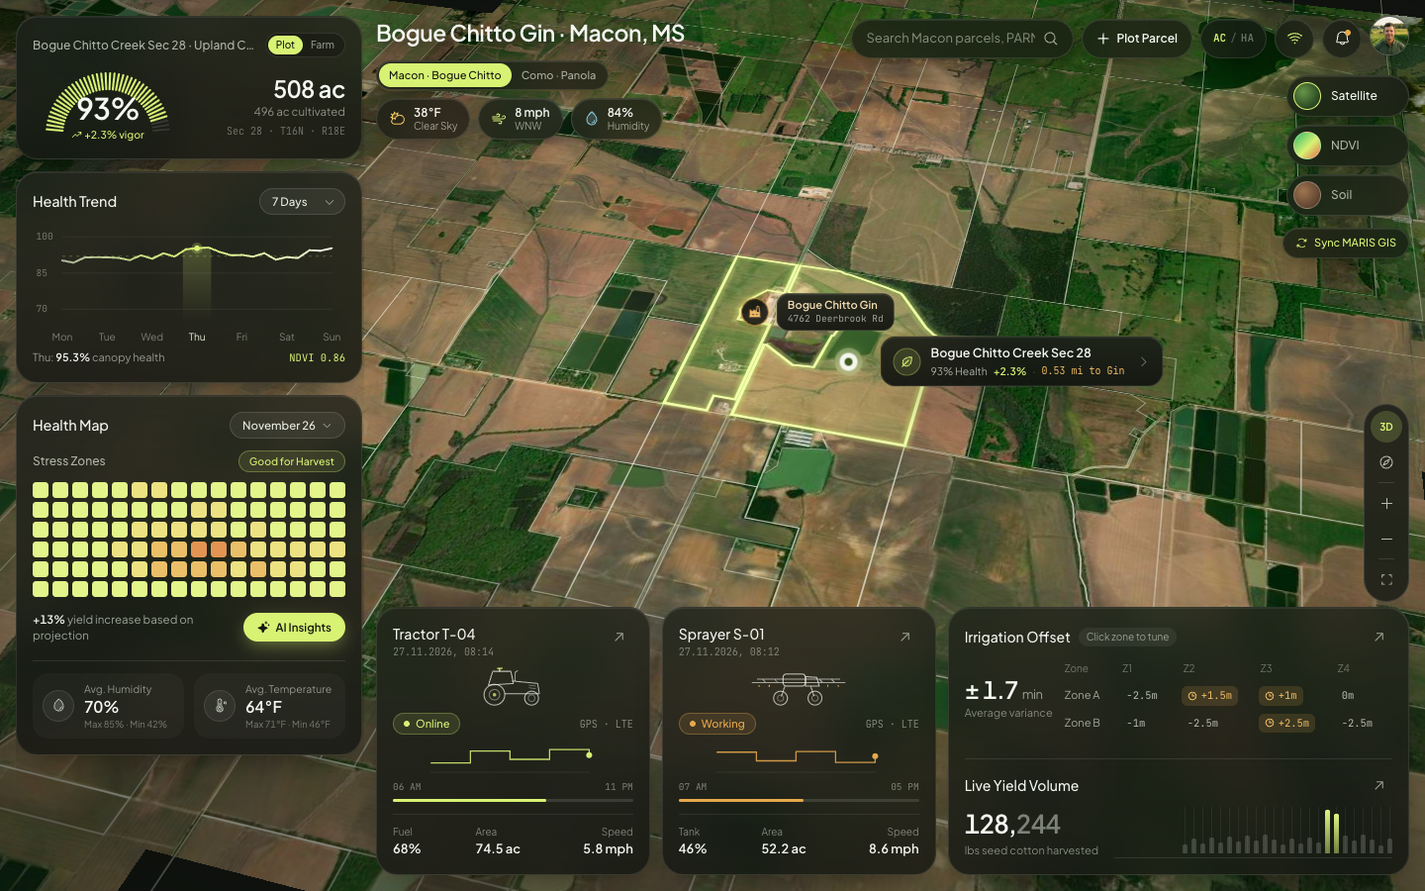
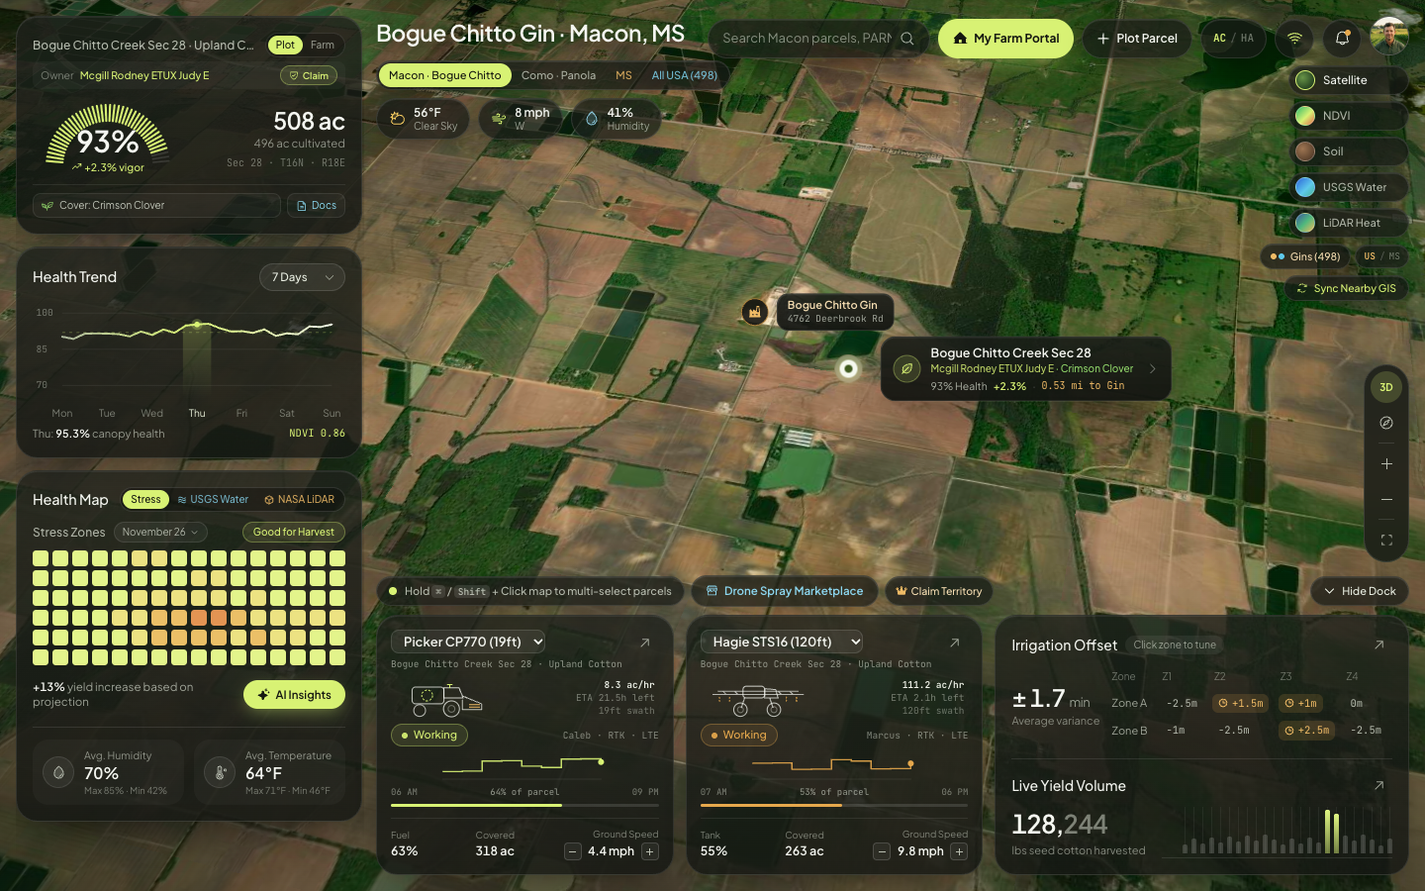
Update README with fresh production screenshots and all recent features

diff --git a/README.md b/README.md
@@ -1,21 +1,51 @@
-# DeltaPlot — Mississippi Parcel Farm Management System
+# DeltaPlot — Precision Parcel Farm Management System
 
-**Live Deployment:** [https://delta-parcel-fms.vercel.app](https://delta-parcel-fms.vercel.app) · **Repository:** [github.com/sardoru/delta-parcel-fms](https://github.com/sardoru/delta-parcel-fms)
+**Live Deployment:** [https://delta-parcel-fms.vercel.app](https://delta-parcel-fms.vercel.app) · **Repository:** [github.com/sardoru/delta-parcel-fms](https://github.com/sardoru/delta-parcel-fms) · **Auth Roadmap:** [Issue #1](https://github.com/sardoru/delta-parcel-fms/issues/1)
 
-A parcel-first precision agriculture operations cockpit built for **Mississippi farmers**, grounded in **official 2024 Mississippi MARIS cadastral farmland parcels** across two major Mississippi row-crop basins on a live 3D-tilted satellite map:
+A parcel-first precision agriculture operations cockpit and farmer owner portal built on **official multi-state county cadastral farmland parcels**, **live federal USGS & NASA hydrological/LiDAR intelligence**, **498 verified U.S. Cotton Gins & Warehouses**, an **Ag-Drone Spraying Marketplace**, and **Google-Maps-style County Tax Assessor postcard ownership verification**.
 
-- **Bogue Chitto Gin · Macon, MS (Noxubee County, FIPS `28103`)** — 120 official MARIS 2024 East MS Black Belt Prairie farm parcels (**28,770 surveyed acres / 25,197 cultivated acres**) centered around **Bogue Chitto Gin (`4762 Deerbrook Rd, Macon, MS 39341`)** with live haul-distance telemetry (`mi to Gin`) and Blackland soil series (**Brooksville, Okolona, Leeper, Vaiden, Kipling**).
-- **Como, MS (Panola County, FIPS `28107`)** — 120 official MARIS 2024 West MS cultivated farm parcels (**24,087 surveyed acres / 15,433 cultivated acres**) along Hwy 310, US-51, and I-55 with MLRA-134 loess soil series (**Memphis, Loring, Collins, Falaya, Grenada**).
-- **All U.S. Cotton Gins & Warehouses (`All USA (498)`)** — Every geocoded **U.S. Cotton Gin (447)** and **U.S. Cotton Warehouse (51)** across all **17 U.S. Cotton Belt states** (`TX`, `GA`, `MS`, `AR`, `NC`, `AL`, `TN`, `LA`, `MO`, `SC`, `CA`, `OK`, `AZ`, `VA`, `FL`, `KS`, `NM`) sourced from `cotton-gin-map.vercel.app`, cross-verified against Esri `PointAddress`, EPA FRS GPS/Air, and MS MARIS 2024 cadastral records (`206 ✓ Rooftop Pin`, `134 ✓ Street / POI`, `158 ~ Approx Area`).
-- **In-Cab Combine Harvester Driving & RTK AutoTrac Simulator ([Launch Cab View](https://delta-parcel-fms.vercel.app/?mode=cab))** — First-person panoramic combine cab (`X9 1100` + 40-ft `RD40F` draper/cotton header) playable directly inside any selected Mississippi MARIS parcel with Cornerpost OLED telemetry, interactive steering wheel & HydroHandle throttle, clickable CommandCenter™ G5 autopilot waypoints, Auto AB Swaths, live swath coverage painting, and Day/Dusk harvest lighting.
+![DeltaPlot — Live 3D Satellite Parcel Dashboard (Bogue Chitto Gin · Macon, MS)](docs/preview-macon.png)
 
-![DeltaPlot Bogue Chitto Gin — Macon, MS Live Satellite Parcel Dashboard](docs/preview-macon.png)
+---
 
-### In-Cab Combine Harvester Simulator Screenshots
+## Feature Showcase
 
-![DeltaPlot X9 1100 Combine Harvester Cab — Daytime Cotton Harvest with Cornerpost OLED, Steering Column & CommandCenter G5 Waypoints](docs/preview-combine-cab.png)
+### Live USGS Water / Drainage + NASA SMAP & USGS 3DEP 1-Meter LiDAR Map Overlays
+Toggle federal raster heatmaps directly onto the 3D satellite map from either the right-side map rail or inside the left **Health Map** panel (`USGS Water` + `NASA LiDAR` tabs):
+- **USGS Water + NASA SMAP** ([Open Live](https://delta-parcel-fms.vercel.app/?overlay=water&healthTab=water)) — Streams live **USGS NHD** creeks & drainage channels, **USGS WBD HUC-12** watershed boundaries, and **NASA GIBS SMAP L4** surface soil moisture tiles alongside live **USGS National Water Dashboard** stream gages & **FEMA NFHL** flood zones.
+- **USGS 3DEP 1m LiDAR Heatmap** ([Open Live](https://delta-parcel-fms.vercel.app/?overlay=lidar&healthTab=lidar)) — Streams live 1-meter LiDAR elevation tiles with inline **`Elev` | `Slope` | `2ft`** contour switching plus selectable **NASA GEDI L2A** & **ICESat-2 ATL08** orbital LiDAR scans.
 
-![DeltaPlot X9 1100 Combine Harvester Cab — Dusk Night Harvest with LED Work Lights & Active RTK AutoTrac Autopilot](docs/preview-combine-dusk.png)
+![DeltaPlot — Live USGS Water/Drainage, NASA SMAP & USGS 3DEP 1m LiDAR Map Overlays](docs/preview-usgs-lidar.png)
+
+### Farmer Owner Portal & Farm Management Dashboard
+Verify ownership of your parcels to manage your entire farm portfolio from a dedicated owner dashboard ([Open Portal](https://delta-parcel-fms.vercel.app/?mode=portal)):
+- **Portfolio KPIs:** Verified owned acreage, pending USPS postcard claims, winter cover crop coverage %, uploaded soil tests & certifications, and active drone RFQs.
+- **4 Dedicated Portal Views:** `Farm Dashboard`, `Crop Cover & Rotation` (multi-year cross-parcel matrix), `Docs, Certs & Soil Tests` (unified Farm Vault), and `Postcard Claims` (USPS PIN verification ledger).
+
+![DeltaPlot — Farmer Owner Portal & Farm Management Dashboard](docs/preview-farmer-portal.png)
+
+### County Tax Assessor Postcard Ownership Claiming (Google-Maps-Style Verification)
+Prevent unauthorized parcel claims using live County Tax Roll verification ([Open Claim Flow](https://delta-parcel-fms.vercel.app/?drawer=claim)):
+- Queries live **MS MARIS County Tax Assessor records** (`MAILADD1`, `MCITY1`, `MZIP1`) to retrieve the owner's official mailing address on file and locks the USPS verification postcard exclusively to that address (`7–14 day` USPS delivery + one-time 6-digit PIN).
+- Includes a sandbox postcard preview so reviewers can test the full claim → PIN verification → `✓ Verified Owner` badge → Farmer Portal workflow end-to-end.
+- Future production authentication, server-side Lob/PostGrid postcard dispatch, and private cloud document storage are tracked in [GitHub Issue #1](https://github.com/sardoru/delta-parcel-fms/issues/1).
+
+![DeltaPlot — County Tax Assessor Postcard PIN Ownership Verification](docs/preview-postcard-claim.png)
+
+### Parcel Crop Cover, Multi-Season Crop History & Document / Soil Test Vault
+Manage agronomic history and compliance records directly on every parcel ([Open Crops & Cover](https://delta-parcel-fms.vercel.app/?drawer=crops) · [Open Docs & Soil Vault](https://delta-parcel-fms.vercel.app/?drawer=documents)):
+- **Active Cash Crop & Winter Cover Crop:** Assign cash crops and winter conservation covers (`Cereal Rye`, `Crimson Clover`, `Winter Wheat Cover`, `Tillage Radish + Oats`, `Hairy Vetch`, `Austrian Winter Pea`, `Black Oats + Clover Mix`) with seeded date & termination targets.
+- **Previous Crops Planted:** Log multi-year crop rotations (`Main Crop`, `Fall/Winter Cover`, `Double-Crop`), varieties, tillage practices, and yield notes.
+- **Document, Certification & Soil Test Uploads:** Drag-and-drop `PDF`, `CSV`, `PNG`, `JPG`, `XLSX`, or `DOCX` files across 6 categories (`Soil Test`, `Certification`, `FSA / USDA Form`, `Spray / Drone Record`, `Deed / Tax Roll`, `Other`) with structured soil lab assay inputs (**pH, OM %, N, P, K, CEC**).
+
+![DeltaPlot — Parcel Crop Cover & Previous Crops Planted Drawer](docs/preview-crops-cover.png)
+
+### Ag-Drone Spraying Marketplace, Multi-Parcel RFQs & Exclusive Territory Claims
+Hold **`⌘` / `Ctrl` / `Shift` + Click** on the map to batch-select multiple parcels and request spraying quotes from FAA Part 137 drone applicators ([Open Marketplace](https://delta-parcel-fms.vercel.app/?mode=drone) · [Open Vendor Signup](https://delta-parcel-fms.vercel.app/?mode=drone-vendor)):
+- **Multi-Parcel Bid Exchange:** Send a single RFQ across all selected parcels with combined acreage, carrier GPA, chemical/defoliant application type, and instant itemized vendor bids.
+- **Vendor Memberships & Exclusive Territories:** Drone service companies can sign up as regional approved vendors or claim exclusive high-priority county territories for a higher tier fee.
+
+![DeltaPlot — Ag-Drone Spraying Marketplace & Exclusive Territory Claims](docs/preview-drone-marketplace.png)
 
 <details>
 <summary>View Como, MS (Panola County) Basin Screenshot</summary>
@@ -26,46 +56,43 @@ A parcel-first precision agriculture operations cockpit built for **Mississippi 
 
 ---
 
-## Overview
+## Core Capabilities
 
-DeltaPlot unifies real Mississippi county cadastral boundaries, high-resolution satellite imagery, vegetation vigor diagnostics, USDA NRCS soil series mapping, fleet telemetry, and poly-pipe / pivot irrigation zone calibration inside a single dark-glass spatial HUD.
+### 1. Multi-State Cadastral GIS & Nationwide Cotton Belt Infrastructure
+- **Bogue Chitto Gin · Macon, MS (Noxubee County, FIPS `28103`):** 120 official MARIS 2024 East MS Black Belt Prairie farm parcels (**28,770 surveyed acres / 25,197 cultivated acres**) with live `mi to Gin` haul distance and Blackland soils (**Brooksville, Okolona, Leeper, Vaiden, Kipling**).
+- **Como, MS (Panola County, FIPS `28107`):** 120 official MARIS 2024 West MS parcels (**24,087 surveyed acres / 15,433 cultivated acres**) with MLRA-134 loess soils (**Memphis, Loring, Collins, Falaya, Grenada**).
+- **All 498 U.S. Cotton Gins & Warehouses (`All USA (498)`):** All **447 Cotton Gins** and **51 Cotton Warehouses** across all **17 U.S. Cotton Belt states**, cross-verified against Esri `PointAddress`, EPA FRS GPS/Air, and county cadastral records.
+- **Live Multi-State County Parcel Sync (`Sync Nearby GIS`):** Click any gin or warehouse (or pan anywhere in view) to pull live official farmland parcel polygons with real county ownership directly from **MS MARIS**, **Arkansas GIS**, **Texas StratMap**, and **NC OneMap**.
+- **Geodesic Parcel Plotter (`+ Plot Parcel`):** Click 3+ GPS vertices on the satellite map to survey custom sub-plots with spherical-earth geodesic acreage persisted to `localStorage`.
 
-Out of the box, the application ships with **120 official cultivated farm parcels** around **Como, MS 38619** (totaling **24,087 surveyed GIS acres** and **15,433 cultivated row-crop acres** along Highway 310, US-51, Interstate 55, Compress Rd, Dunlap Rd, Old Panola Rd, Wilborn Creek, and Holston Rd) — and can dynamically query additional Mississippi parcels anywhere in the viewport directly from the live **MARIS 2024 Cadastral ArcGIS REST API**.
+### 2. Precision Agronomy, Hydrology & Orbital LiDAR (Left Analytics Rail)
+- **Segmented Health Arc Gauge & Owner Header:** Toggle **Plot** vs. **Farm** aggregates, convert **AC / HA** & **°F / °C**, view verified county ownership, and jump directly to **Cover Crops**, **Docs & Soil**, or **Claim Parcel**.
+- **Health Trend Waveform:** Interactive `7 Days`, `14 Days`, and `30 Days` canopy vigor & NDVI scrubber.
+- **3-Mode Health Map (`Stress` | `USGS Water` | `NASA LiDAR`):**
+  - **Stress Zones:** 16×6 sub-parcel stress grid with live map crosshair projection and **AI Agronomy Insights**.
+  - **USGS Water:** Live **USGS National Water Dashboard** streamgage height/discharge, **FEMA NFHL** flood zone lookup, **HUC-12** watershed ID, and one-click map overlay sync.
+  - **NASA LiDAR:** Selectable **NASA GEDI L2A**, **ICESat-2 ATL08**, and **USGS 3DEP 1m DEM** elevation/slope scans with one-click map overlay sync.
+
+### 3. Collapsible Bottom Telemetry Dock & Parcel-Bound Equipment HUD
+- **Hide / Show Bottom Dock (`Hide Dock`):** Collapse the entire telemetry dock into a minimal floating bar (or open with `?dock=hidden`) to maximize 3D satellite map workspace.
+- **Changeable Real Equipment HUD:** Swap primary harvesters/tractors (**John Deere CP770 Picker, X9 1100 Combine, 8R 340 Tractor, Case IH Module Express 635**) and applicators (**Hagie STS16, JD 616R, DJI Agras T50 Drone, Air Tractor 502B**) per parcel with live speed tuning (`-` / `+`), `ac/hr` capacity, and parcel ETA recalculation.
+- **Interactive Irrigation Offset Calibration & Live Yield Spectrum:** Step-calibrate `Zone A / Zone B` (`Z1–Z4`) poly-pipe and pivot timing offsets in real time.
 
 ---
 
-## Key Features
+## Quick Deep Links
 
-### 1. Live 3D-Tilted Geospatial Parcel Map (MapLibre GL JS)
-- **High-Resolution Satellite Imagery:** Powered by Esri World Imagery with subtle transportation and place reference overlays so growers can orient by real roads (`I-55`, `US-51`, `MS-310`, `W Oak Ave`) without obscuring crop rows.
-- **3D Oblique Aerial & 2D Survey Modes:** Launches in a 48° oblique 3D aerial pitch (`3D` toggle switches cleanly to 0° top-down cadastral survey view).
-- **Interactive Cadastral Selection:** Click any of the 120+ Panola County farm parcels to smoothly fly to it, illuminate its exact surveyed boundary in luminous chartreuse, and refresh all analytics, weather, irrigation, and dossier panels.
-- **Multi-Layer Spectral & Soil Modes:**
-  - **Satellite:** Natural-color aerial imagery with glowing active parcel boundary and hover previews.
-  - **NDVI:** Parcel-wide vegetation vigor index color overlay (`0.34 – 0.92` scale).
-  - **Soil:** Panola County MLRA-134 soil series overlay (**Memphis Silt Loam**, **Loring Silt Loam**, **Collins Silt Loam**, **Falaya Silt Loam**, **Grenada Silt Loam**).
-- **Live MARIS GIS Viewport Sync (`Sync MARIS GIS`):** Pan anywhere across Panola, Tate, Quitman, Tunica, DeSoto, Leflore, or neighboring West Mississippi counties and pull live 2024 cultivated farm parcels (`CULT_AC1 >= 25 OR GISACRES >= 50`) straight from `gis.mississippi.edu`.
-- **Geodesic Parcel Plotter (`+ Plot Parcel`):** Click 3 or more GPS vertices directly on the satellite map to survey custom sub-fields or management blocks with real spherical-earth geodesic acreage calculation, persisted to `localStorage`.
-
-### 2. Precision Agronomy & Stress Analytics (Left Rail)
-- **Segmented Health Arc Gauge & Area KPI:** Toggle seamlessly between **Plot** (active parcel GIS vs. cultivated acreage and PLSS Section-Township-Range) and **Farm** (whole-operation aggregate), plus instant **AC / HA** and **°F / °C** unit conversion.
-- **Health Trend Waveform:** Interactive `7 Days`, `14 Days`, and `30 Days` canopy vigor & NDVI time-series chart with hover scrubbing and optimal threshold baseline.
-- **Health Map (`Stress Zones`):** 16×6 sub-parcel spatial stress heatmap. Hovering any zone inspects local moisture %, NDVI, and agronomic stress cause (e.g., Loring fragipan moisture deficit or terrace runoff) while simultaneously projecting a pulsing crosshair at that exact sub-zone inside the selected parcel on the map.
-- **AI Agronomy Insights (`AI Insights`):** Parcel-specific MSU Extension & USDA-NRCS aligned prescriptions (harvest windows, variable-rate lime recommendations, MLRA-134 loess erosion control, EQIP eligibility) with one-click scheduling into the parcel operations log.
-
-### 3. Live Fleet, Irrigation Offset & Harvest Telemetry (Bottom Dock)
-- **Equipment Telemetry Cards (`Tractor T-04` & `Sprayer S-01`):** Isometric technical wireframes, live `Online` / `Working` status, RTK/LTE telemetry badges, stepped shift duty-cycle graphs, fuel/tank/area/speed readouts, and click-to-inspect parcel dispatch reassignment.
-- **Interactive Irrigation Offset Calibration:** Live `Zone A` / `Zone B` (`Z1–Z4`) timing offset matrix for poly-pipe, surge valves, and center-pivot spans. Click any zone offset cell to step-calibrate timing (`±0.5 min`) and recalculate average variance in real time.
-- **Live Yield Volume:** Real-time harvest mass readout (`lbs` / `kg`) and load-interval pulse spectrum tailored to each parcel's crop.
-
-### 4. Real-Time Como Weather & Panola County Cadastral Dossier
-- **Live Como, MS Weather:** Fetches live temperature, wind speed & compass bearing, humidity, and sky condition for Como (`34.5101°N, -89.9401°W`) via Open-Meteo with resilient offline defaults.
-- **Parcel Dossier Drawer:** Displays official Panola County assessor records (`PARNO`, `PLSS`, `Legal Description`, `Site Address`, `2024 Assessed Land Value`, `Surveyed vs. Cultivated Acres`), USDA soil pH/CEC/drainage specs, live **Field Activity Logger**, and one-click **JSON Parcel Export**.
-
-### 5. In-Cab Combine Harvester Driving & RTK AutoTrac Simulator
-- **First-Person Panoramic Windshield:** 60fps perspective view over the real selected MARIS parcel polygon with converging crop rows (white cotton bolls, corn stalks, soybeans, sorghum, or wheat), live harvested stubble swaths, animated 40-ft `RD40F` draper header with spinning pickup reel & hydraulic raise/lower (`4"–44"`), chaff/dust plumes, Day/Dusk mode with LED work-light beams, windshield wiper, and AR windshield guidance corridor.
-- **Right A-Pillar Cornerpost OLED Display:** Live ground speed (`MPH`), drive range (`F1 / F2 / N / R`), engine RPM & load %, coolant °F, live grain tank / cotton basket fill %, header height gauge, shoe & rotor loss monitor, fuel/DEF %, and `SEP / HDR / AUTO / AUG` annunciators.
-- **Interactive Steering, HydroHandle & CommandCenter™ G5 Waypoints:** Drag the 3-spoke steering wheel or drive with `W/A/S/D` & Arrow keys, drop custom waypoints by clicking anywhere on the live parcel map, generate parallel **Auto AB Swaths**, engage **RTK AutoTrac (`P`)** pure-pursuit autopilot with live Cross-Track Error (`XTE`), inspect **Threshing** diagnostics (Dual Rotor RPM, Cleaning Fan RPM, Concave Clearance), and log harvested acreage directly back to the parcel dossier upon exiting.
+| Feature / View | Direct Live URL |
+| --- | --- |
+| Main 3D Satellite Dashboard (Macon, MS) | https://delta-parcel-fms.vercel.app |
+| USGS Water + 1m LiDAR Map Overlays | https://delta-parcel-fms.vercel.app/?overlay=both&healthTab=lidar |
+| Farmer Owner Portal (`My Farm Portal`) | https://delta-parcel-fms.vercel.app/?mode=portal |
+| Parcel Crop Cover & Previous Crops | https://delta-parcel-fms.vercel.app/?drawer=crops |
+| Parcel Docs, Certifications & Soil Tests | https://delta-parcel-fms.vercel.app/?drawer=documents |
+| Tax-Roll Postcard Ownership Claim | https://delta-parcel-fms.vercel.app/?drawer=claim |
+| Ag-Drone Spraying Marketplace | https://delta-parcel-fms.vercel.app/?mode=drone |
+| Drone Vendor Signup & Territory Claim | https://delta-parcel-fms.vercel.app/?mode=drone-vendor |
+| Maximized Map (Bottom Dock Hidden) | https://delta-parcel-fms.vercel.app/?dock=hidden |
 
 ---
 
@@ -77,9 +104,10 @@ Out of the box, the application ships with **120 official cultivated farm parcel
 | Styling | Tailwind CSS v4 + Self-hosted `Plus Jakarta Sans` & `JetBrains Mono` (`@fontsource`) |
 | Mapping & WebGL | MapLibre GL JS `v4.7.1` |
 | Icons | `@phosphor-icons/react` |
-| Cadastral GIS Data | Official Mississippi MARIS 2024 Statewide Parcels (`MS_Parcels_August_2024` / Panola County FIPS `28107`) |
+| Cadastral GIS & Tax Rolls | MS MARIS 2024 (`MS_Parcels_August_2024` incl. `OWNNAME` & `MAILADD1`), Arkansas GIS, Texas StratMap, NC OneMap |
+| Federal Map & Env APIs | USGS 3DEP 1m LiDAR ImageServer, USGS NHD & WBD HUC-12, USGS Water Services (NWIS), FEMA NFHL, NASA Earthdata CMR (GEDI/ICESat-2), NASA GIBS SMAP L4 |
 | Satellite Imagery | Esri World Imagery + World Transportation / Boundaries & Places |
-| Live Weather | Open-Meteo Forecast API (`34.5101°N, -89.9401°W`) |
+| Live Weather | Open-Meteo Forecast API |
 | Hosting | Vercel (static SPA) |
 
 ---
@@ -89,13 +117,16 @@ Out of the box, the application ships with **120 official cultivated farm parcel
 ```text
 delta-parcel-fms/
 ├── docs/
-│   ├── preview-macon.png            # Live Bogue Chitto Gin — Macon, MS dashboard screenshot
-│   ├── preview-combine-cab.png      # In-cab Combine Harvester interior (Daytime Harvest)
-│   ├── preview-combine-dusk.png     # In-cab Combine Harvester interior (Dusk Auto-Harvest)
-│   └── preview.png                  # Live Como, MS dashboard screenshot
+│   ├── preview-macon.png             # Live Bogue Chitto Gin — Macon, MS 3D satellite dashboard
+│   ├── preview-usgs-lidar.png        # Live USGS Water/Drainage + NASA SMAP + 3DEP 1m LiDAR overlays
+│   ├── preview-farmer-portal.png     # Farmer Owner Portal & Farm Management Dashboard
+│   ├── preview-postcard-claim.png    # County Tax Assessor live mailing address & USPS postcard claim
+│   ├── preview-crops-cover.png       # Parcel Crop Cover & Previous Crops Planted rotation manager
+│   ├── preview-drone-marketplace.png # Ag-Drone Spraying Marketplace, RFQs & Exclusive Territory Claims
+│   └── preview.png                   # Como, MS (Panola County) basin dashboard
 ├── public/
 │   ├── assets/
-│   │   └── farmer-avatar.jpg        # Operator profile portrait
+│   │   └── farmer-avatar.jpg
 │   └── data/
 │       ├── bogue-chitto-macon-parcels.geojson
 │       ├── como-ms-parcels.geojson
@@ -103,25 +134,29 @@ delta-parcel-fms/
 │       └── us-cotton-facilities.json
 ├── src/
 │   ├── components/
-│   │   ├── BottomTelemetryDock.tsx  # Fleet wireframes, irrigation offset tuner, live yield spectrum
-│   │   ├── CombineCabSimulator.tsx  # In-cab Cornerpost OLED, steering wheel, HydroHandle & CommandCenter G5
-│   │   ├── CombineWindshieldCanvas.tsx # 60fps panoramic perspective field, 40-ft header & AR HUD renderer
-│   │   ├── InspectorDrawers.tsx     # Cadastral dossier, AI agronomy drawer, equipment dispatch
-│   │   ├── LeftAnalyticsRail.tsx    # Segmented health gauge, trend chart, 16x6 stress heatmap
-│   │   ├── ParcelMapStage.tsx       # MapLibre GL 3D satellite stage, MARIS sync, geodesic plotter
-│   │   └── TopHudBar.tsx            # Live weather pills, parcel/facility search, Drive Combine button
+│   │   ├── BottomTelemetryDock.tsx   # Collapsible dock, changeable equipment HUD, irrigation offsets, drone bar
+│   │   ├── DroneMarketplaceModal.tsx # FAA Part 137 drone directory, multi-parcel RFQs & territory claims
+│   │   ├── FarmerPortalModal.tsx     # Dedicated Farmer Owner Portal (dashboard, rotation matrix, vault, claims)
+│   │   ├── InspectorDrawers.tsx      # 4-tab Parcel Dossier (Overview, Crops & Cover, Docs & Soil, Postcard Claim)
+│   │   ├── LeftAnalyticsRail.tsx     # Health arc gauge, trend chart, Stress / USGS Water / NASA LiDAR map
+│   │   ├── ParcelMapStage.tsx        # MapLibre 3D satellite, federal raster overlays, 498 gins/WH, GIS sync
+│   │   └── TopHudBar.tsx             # Basin/USA switcher, weather, search, My Farm Portal, Plot Parcel
 │   ├── data/
-│   │   ├── msParcels.ts             # MARIS feature hydration, regional soils, fleet & alerts
-│   │   └── regions.ts               # Macon (Noxubee) & Como (Panola) region definitions
+│   │   ├── droneMarketplace.ts       # Regional FAA Part 137 drone vendors & claimable territories
+│   │   ├── equipmentCatalog.ts       # Changeable harvesters, tractors, sprayers & aerial applicators
+│   │   ├── msParcels.ts              # MARIS parcel hydration, soils, yields & alerts
+│   │   ├── parcelOwnerStore.ts       # Crop covers, rotation history, document vault & live MARIS tax-roll lookup
+│   │   └── regions.ts                # Macon (Noxubee) & Como (Panola) basin configs
 │   ├── types/
-│   │   └── farm.ts                  # TypeScript domain models (Parcel, Equipment, CottonFacility, etc.)
+│   │   └── farm.ts                   # Domain models (Parcel, ParcelCropProfile, ParcelDocument, ParcelClaimRecord)
 │   ├── utils/
-│   │   ├── combineSim.ts            # Combine vehicle physics, HarvestGrid & RTK Pure-Pursuit autopilot
-│   │   └── units.ts                 # Geodesic area (spherical excess), bbox, AC/HA & °F/°C formatters
-│   ├── App.tsx                      # State orchestration, MARIS live fetch, Open-Meteo weather
-│   ├── index.css                    # Smoked obsidian glass tokens, fonts, animations
-│   └── main.tsx                     # Application entry point
-├── vercel.json                      # Vercel Vite SPA deployment configuration
+│   │   ├── parcelEnvIntel.ts         # Live USGS NWIS, FEMA NFHL, 3DEP Elevation & NASA CMR LiDAR queries
+│   │   ├── parcelGisSync.ts          # Multi-state live parcel & owner sync (MS, AR, TX, NC)
+│   │   └── units.ts                  # Geodesic acreage, bbox & US/Metric formatters
+│   ├── App.tsx
+│   ├── index.css
+│   └── main.tsx
+├── vercel.json
 ├── vite.config.ts
 └── package.json
 ```
@@ -152,7 +187,7 @@ npm run preview
 ---
 
 ## Data Attribution & Sources
-- **Cadastral Parcel Polygons & Assessor Metadata:** Mississippi Automated Resource Information System (**MARIS**) / MDEQ / Panola County Tax Assessor (`MS_Parcels_August_2024`).
-- **Satellite Base Tiles:** Esri, Maxar, Earthstar Geographics, and the GIS User Community.
-- **Weather Telemetry:** [Open-Meteo](https://open-meteo.com/) real-time forecast API.
-- **Agronomy & Soil Context:** USDA-NRCS MLRA 134 (Southern Mississippi Valley Silty Uplands — Panola County) & Mississippi State University Extension row-crop management baselines.
+- **Cadastral Parcels & Tax Assessor Records:** Mississippi MARIS (`MS_Parcels_August_2024`), Arkansas GIS Office, Texas TNRIS StratMap, and NC OneMap.
+- **Hydrology, Flooding & LiDAR:** USGS National Water Information System (NWIS), USGS National Hydrography Dataset (NHD/WBD), USGS 3D Elevation Program (3DEP), FEMA National Flood Hazard Layer (NFHL), NASA Earthdata CMR (`GEDI L2A`, `ICESat-2 ATL08`), and NASA GIBS (`SMAP L4`).
+- **Cotton Infrastructure:** U.S. Cotton Gins & Warehouses dataset (`cotton-gin-map.vercel.app`) verified against Esri Geocoder, EPA FRS, and county cadastral records.
+- **Satellite Imagery & Weather:** Esri World Imagery / Maxar / Earthstar Geographics and [Open-Meteo](https://open-meteo.com/).
